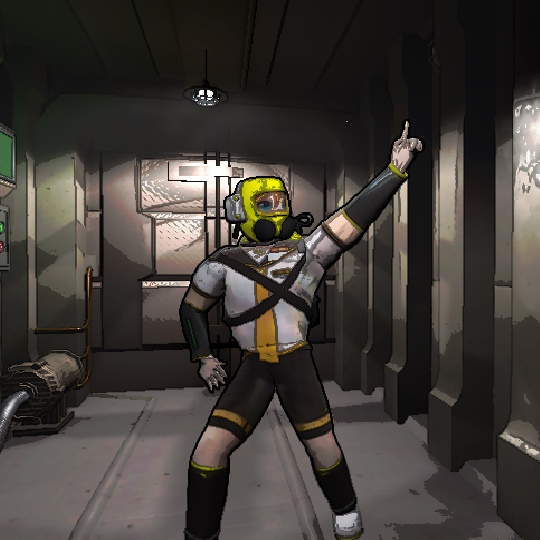
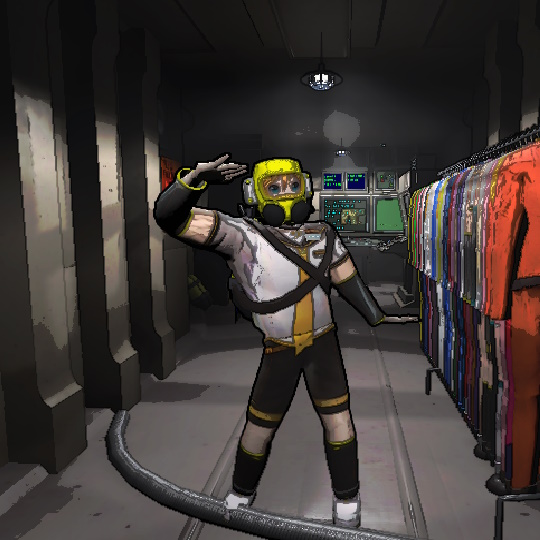
Fix Rin and Len's eyes.

diff --git a/README.md b/README.md
@@ -1,4 +1,4 @@
-# Vocaloid Suits v1.2.0
+# Vocaloid Suits v1.2.1
 ### Adds Vocaloid characters to Lethal Company as suits!
 
 ## Instructions

diff --git a/CHANGELOG.md b/CHANGELOG.md
@@ -1,3 +1,6 @@
+## 1.2.1
+- Fixed Kagamine Rin and Len's eyes.
+
 ## 1.2.0
 - **[NEW SUIT] Added Kagamine Len.**
 
